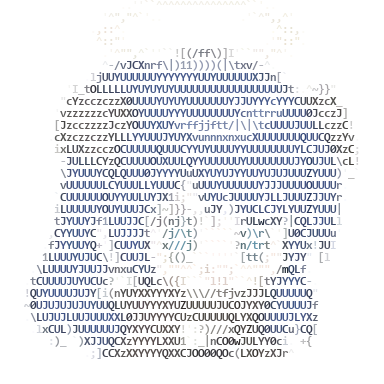
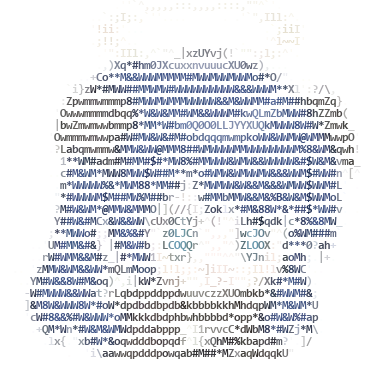
Further improved character selection

diff --git a/main.py b/main.py
@@ -25,15 +25,15 @@ def get_density(color):
     luma = 0.2126 * r + 0.7152 * g + 0.0722 * b
     # 颜色饱和度
     saturation = max(r, g, b) - min(r, g, b)
-    # 组合指标（你可以自己调节权重）
-    perceived_intensity = (1 - luma / 255.0) * 0.85 + (saturation / 255.0) * 0.15
-    return perceived_intensity
+    # 组合指标
+    perceived_intensity = (1 - luma / 255.0) * 1.1 + (saturation / 255.0) * 0.7 # 你可以自己调节权重
+    return min(perceived_intensity, 1.0)
 
 def image_to_ascii_image(input_path, output_path="ascii_output.png", block_size=(2,4), font_size=12):
     img = Image.open(input_path).convert("RGB")
     
     # 增强对比度
-    img = adjust_contrast(img)
+    img = adjust_contrast(img, 1.0) # 你可以自己调节对比度
 
     width, height = img.size
 
@@ -72,4 +72,4 @@ def image_to_ascii_image(input_path, output_path="ascii_output.png", block_size=
 if __name__ == "__main__":
     image_path = "usage1.jpg"  # 替换为你的图片路径
     output_path = "usage1_result.png"
-    image_to_ascii_image(image_path, output_path)
+    image_to_ascii_image(image_path, output_path, (2,4), 12) # 你可以自己调节尺寸
